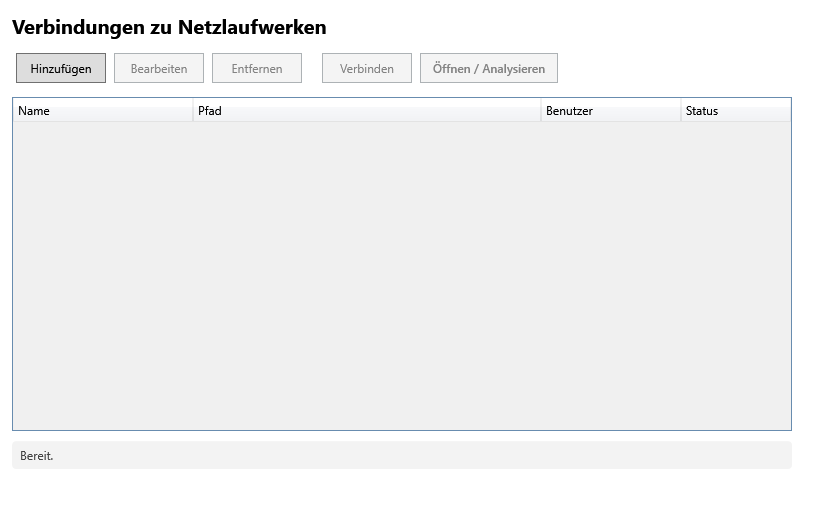
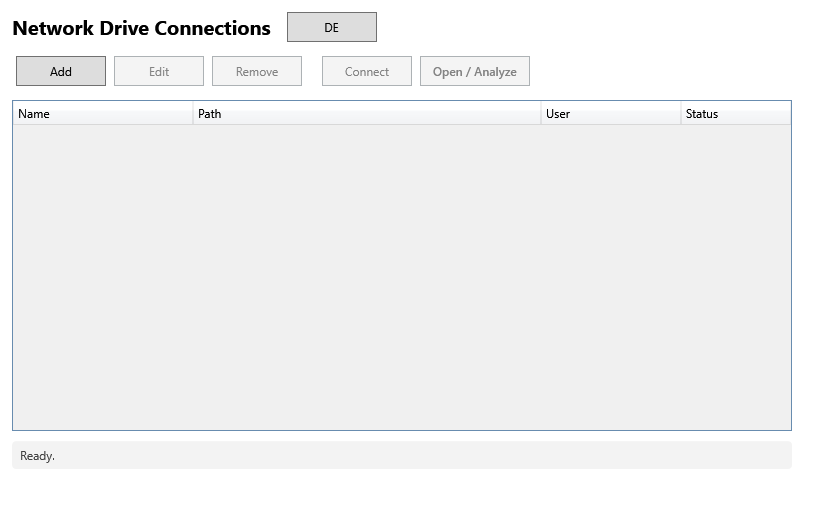
docs: add installer download link, regenerate EN/DE screenshots (#15)
* fix(ci): remove unreliable LASTEXITCODE check for WinExe app

* docs: add installer download link, regenerate EN/DE screenshots

Changed region(s): [[0.0, 0.0, 0.9451, 0.2462], [0.0305, 0.8615, 0.061, 0.8923]]

diff --git a/README.de.md b/README.de.md
@@ -17,6 +17,10 @@ Konzipiert für Microsoft-Enterprise-Umgebungen. Unterstützt SharePoint Online-
 
 ---
 
+> 💾 [**Installer herunterladen**](https://github.com/9t29zhmwdh-coder/NetSweep/releases/latest/download/NetSweep-Setup.exe) (NetSweep-Setup.exe, immer das neueste Release) — unsigniert, Windows SmartScreen zeigt beim ersten Start eine "Unbekannter Herausgeber"-Warnung. Oder selbst aus dem Quellcode bauen, siehe Erste Schritte unten.
+
+---
+
 > 🌱 Neu hier? → [Schritt-für-Schritt-Anleitung für Einsteiger](GETTING_STARTED.md)
 
 ---

diff --git a/README.md b/README.md
@@ -17,6 +17,10 @@ Designed for enterprise Microsoft environments. Supports SharePoint Online mappe
 
 ---
 
+> 💾 [**Download the installer**](https://github.com/9t29zhmwdh-coder/NetSweep/releases/latest/download/NetSweep-Setup.exe) (NetSweep-Setup.exe, always the latest release) — unsigned, so Windows SmartScreen will show an "Unknown Publisher" warning on first run. Or build from source, see Getting Started below.
+
+---
+
 > 🌱 New here? → [Step-by-step guide for beginners](GETTING_STARTED.md)
 
 ---

diff --git a/CHANGELOG.md b/CHANGELOG.md
@@ -3,6 +3,13 @@
 All notable changes to NetSweep will be documented here.
 Format based on [Keep a Changelog](https://keepachangelog.com/en/1.0.0/).
 
+## [0.3.1] - 2026-07-10
+
+### Added
+
+- Real EN/DE screenshots regenerated with the new language toggle (`docs/screenshot.png`, `docs/screenshot.de.png`)
+- Installer download link in README.md/README.de.md pointing at the latest release's `NetSweep-Setup.exe`
+
 ## [0.3.0] - 2026-07-10
 
 ### Added
